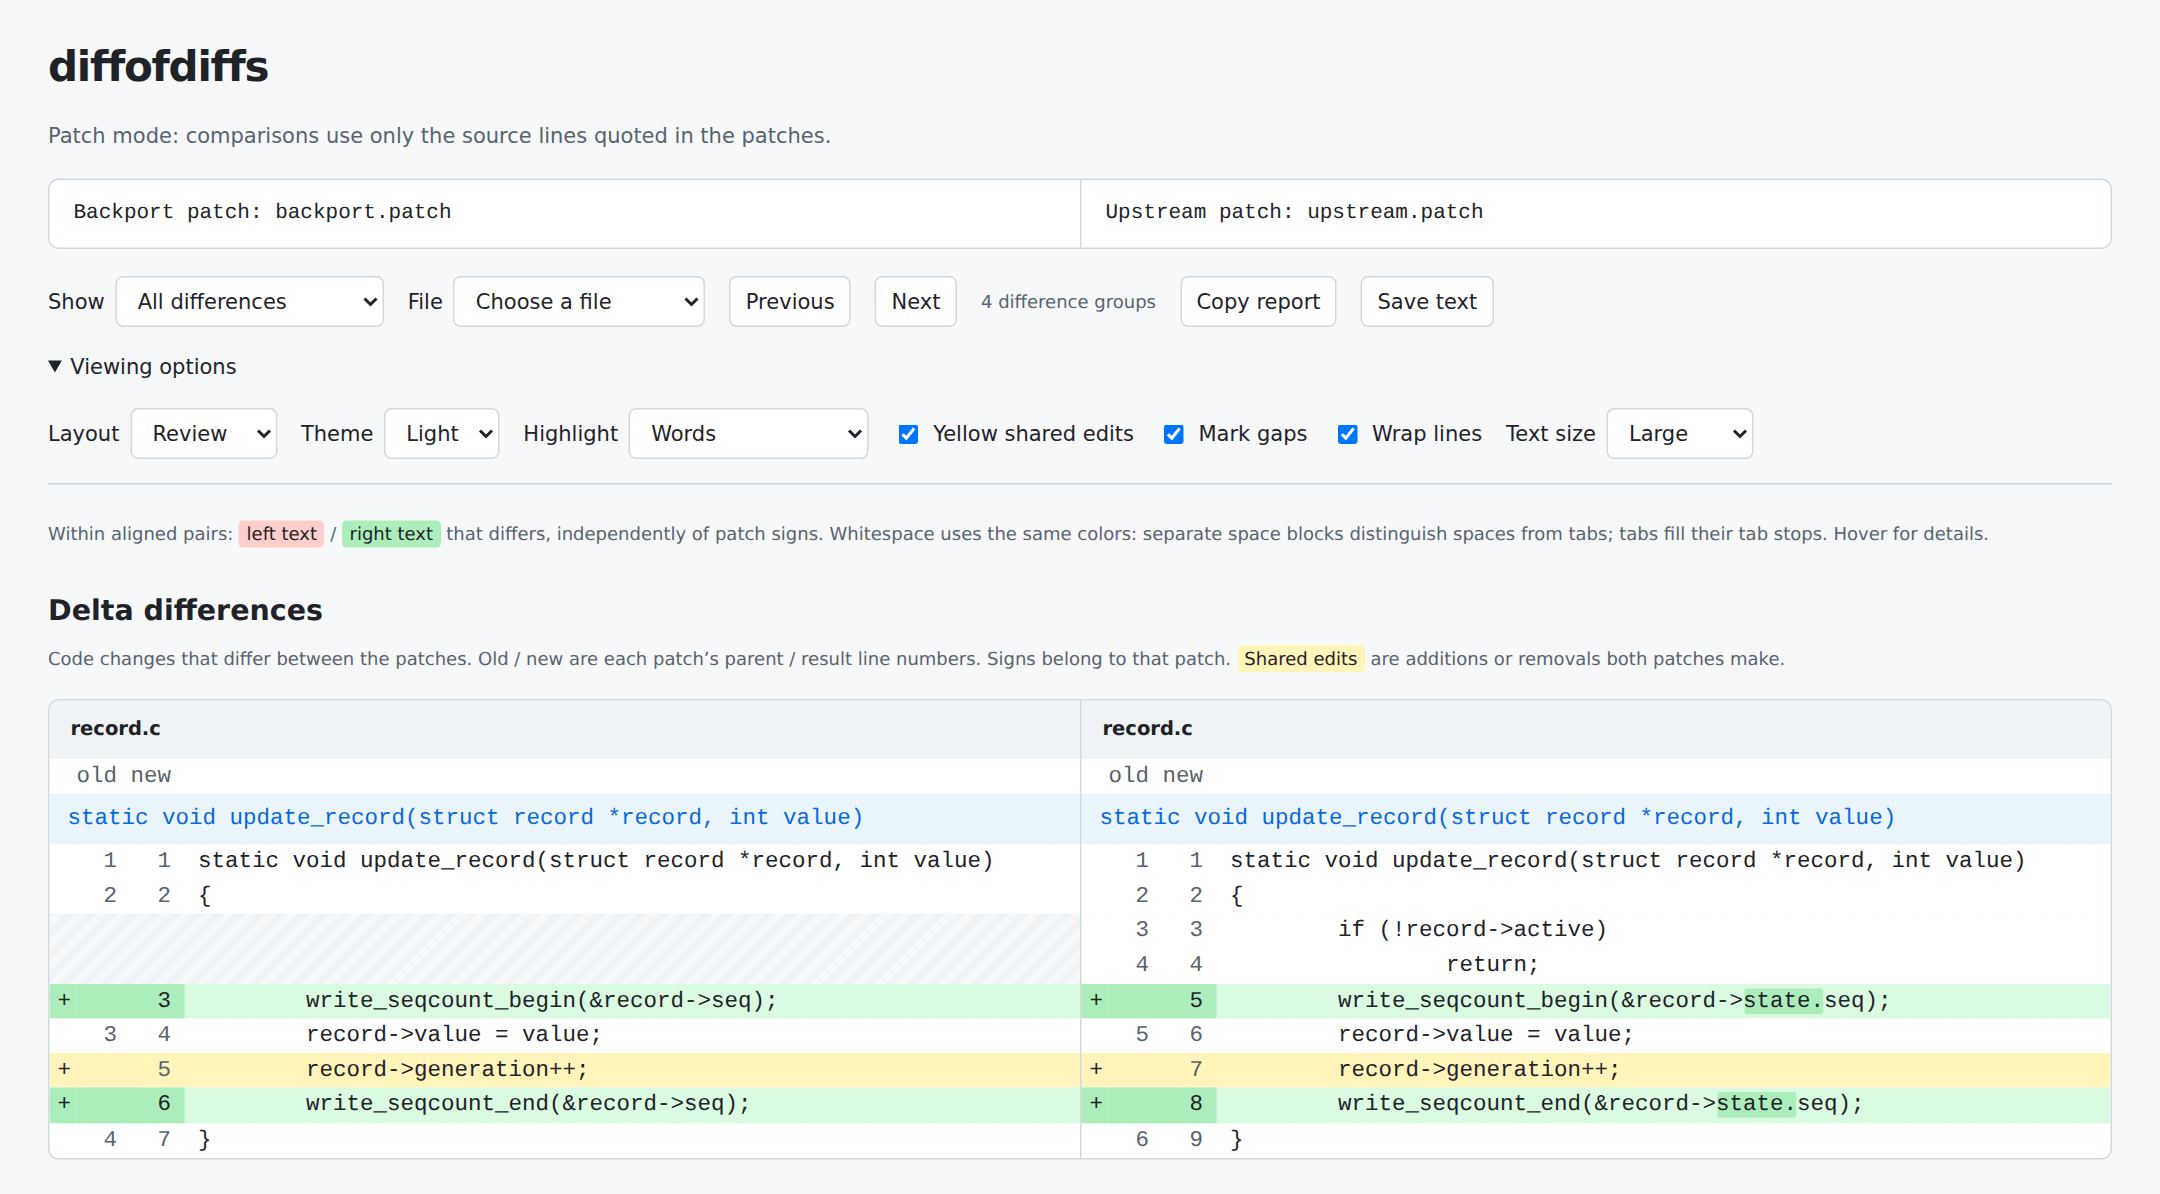
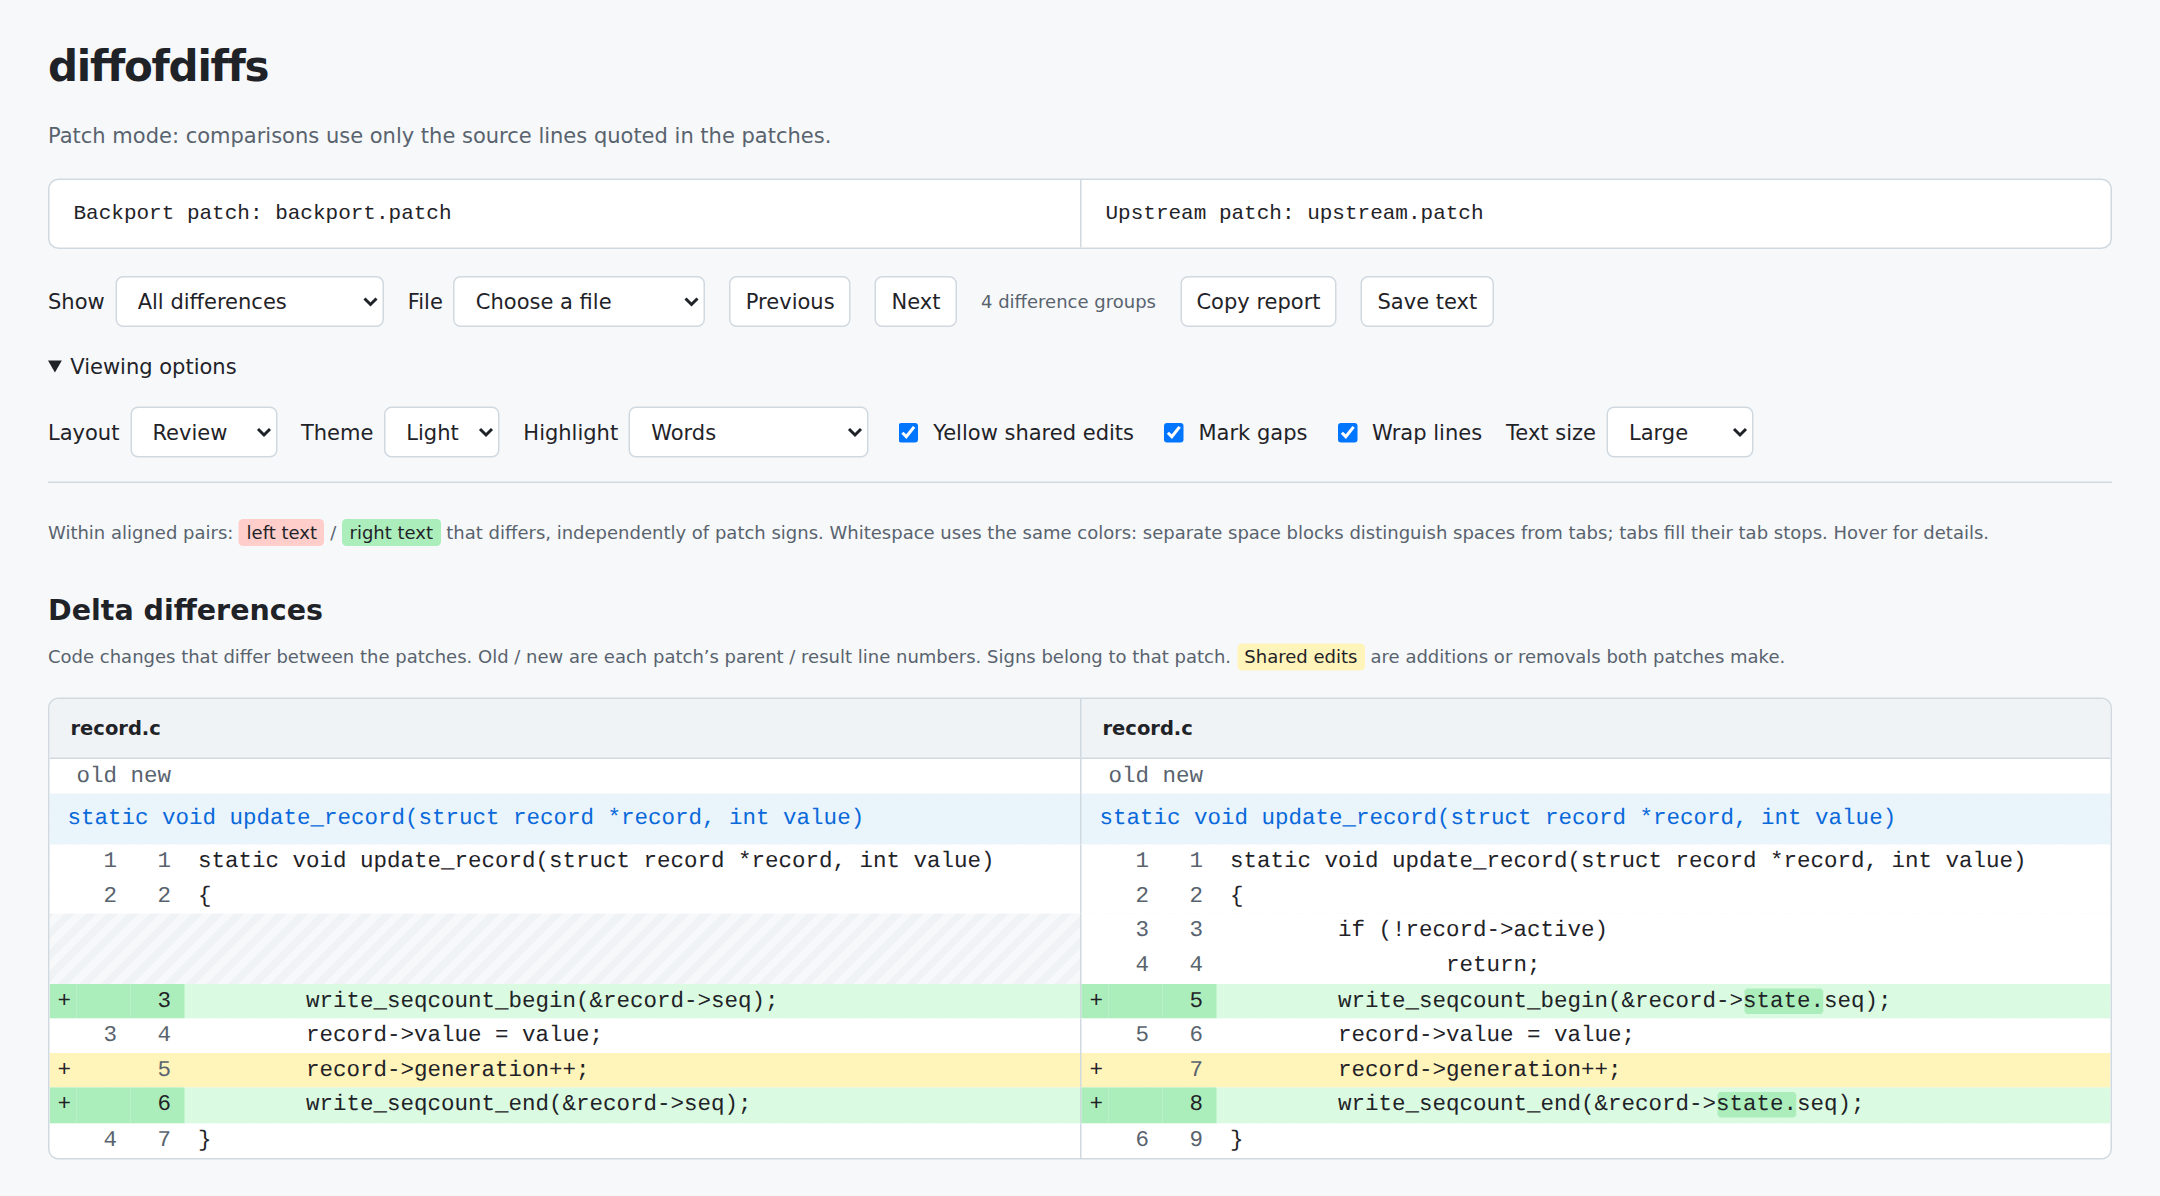
html: Add a bottom border to file headings
File headings blend into the source when they stick to the top of the
page. Keep a bottom border visible at all times so the boundary is clear
before and during scrolling.

Assisted-by: LLM

diff --git a/samples/arguments.html b/samples/arguments.html
@@ -213,7 +213,13 @@ summary { cursor: pointer; }
 .chip.right { background: var(--word-add); }
 .chip.shared { background: var(--shared); }
 .file-block { margin: 18px 0 28px; border: 1px solid var(--border); border-radius: 7px; overflow: clip; }
-.file-heading { position: sticky; top: 0; z-index: 1; background: var(--header); }
+.file-heading {
+	position: sticky;
+	top: 0;
+	z-index: 1;
+	border-bottom: 1px solid var(--border);
+	background: var(--header);
+}
 .file-heading > span { min-width: 0; padding: 10px 14px; overflow-wrap: anywhere; }
 .file-heading > span + span { border-left: 1px solid var(--border); }
 .code-viewport { overflow-x: auto; }

diff --git a/samples/indentation.html b/samples/indentation.html
@@ -213,7 +213,13 @@ summary { cursor: pointer; }
 .chip.right { background: var(--word-add); }
 .chip.shared { background: var(--shared); }
 .file-block { margin: 18px 0 28px; border: 1px solid var(--border); border-radius: 7px; overflow: clip; }
-.file-heading { position: sticky; top: 0; z-index: 1; background: var(--header); }
+.file-heading {
+	position: sticky;
+	top: 0;
+	z-index: 1;
+	border-bottom: 1px solid var(--border);
+	background: var(--header);
+}
 .file-heading > span { min-width: 0; padding: 10px 14px; overflow-wrap: anywhere; }
 .file-heading > span + span { border-left: 1px solid var(--border); }
 .code-viewport { overflow-x: auto; }

diff --git a/src/html.css b/src/html.css
@@ -121,7 +121,13 @@ summary { cursor: pointer; }
 .chip.right { background: var(--word-add); }
 .chip.shared { background: var(--shared); }
 .file-block { margin: 18px 0 28px; border: 1px solid var(--border); border-radius: 7px; overflow: clip; }
-.file-heading { position: sticky; top: 0; z-index: 1; background: var(--header); }
+.file-heading {
+	position: sticky;
+	top: 0;
+	z-index: 1;
+	border-bottom: 1px solid var(--border);
+	background: var(--header);
+}
 .file-heading > span { min-width: 0; padding: 10px 14px; overflow-wrap: anywhere; }
 .file-heading > span + span { border-left: 1px solid var(--border); }
 .code-viewport { overflow-x: auto; }
